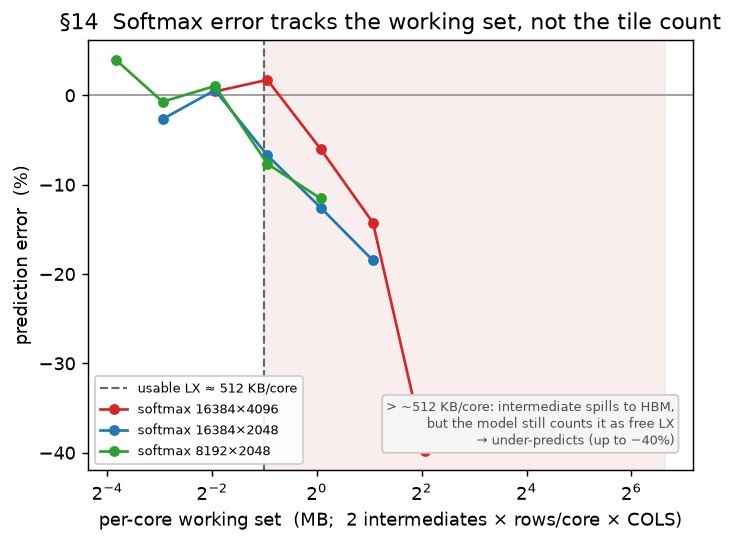
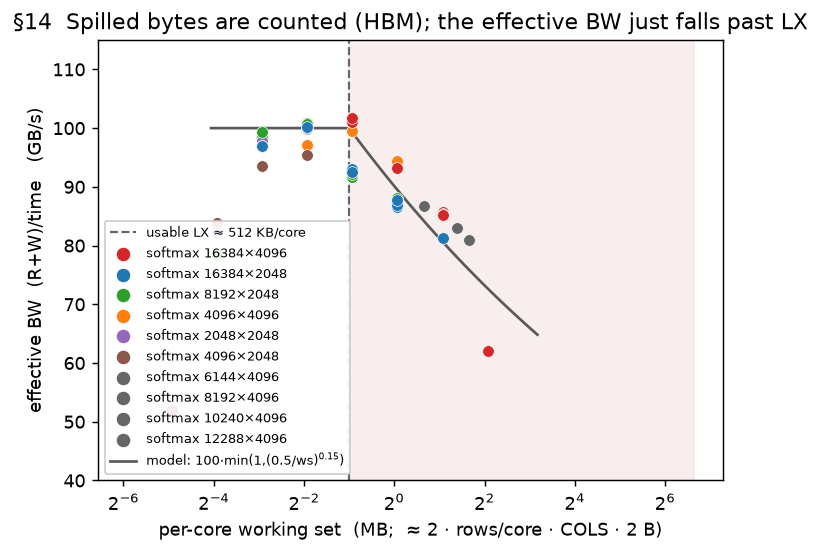
update

diff --git a/torch_spyre/_inductor/cost_model.py b/torch_spyre/_inductor/cost_model.py
@@ -19,17 +19,19 @@ LoopLevel IR to guide higher-level optimization. Deliberately NOT a simulator.
 
 Model (per fused bundle / single-op kernel):
 
-    T = compute + HBM/eff - gamma*min(compute, HBM/eff)
+    T   = compute + mem - gamma*min(compute, mem)          mem = HBM / (eff * s_lx)
 
     HBM = [ (R+W)/BW + alpha*min(R,W) ] * (1 + arity_derate*(n-1)) + spill + write_extra
+    s_lx = min(1, (512KB/ws)**0.15)   for a coarse-tiled kernel with ws > 512KB   (else 1)
 
   where R = HBM bytes READ (inputs), W = HBM bytes WRITTEN (outputs). LX-resident
   traffic is treated as ~free. ``eff`` (<=1) derates the MEMORY term for OUTPUT-dim
-  (pointwise) coarse-tiling that shrinks each core's per-tile height. ``compute`` is nonzero
-  only for matmul (see below). A genuine-reduction cross-core ring term, and a per-iteration
-  coarse-tiling loop overhead (c_loop*L), once lived here but are dropped (the ring is
-  <=~5ns sub-noise; c_loop had no current op to validate it). For a normal untiled non-matmul
-  kernel eff = 1 and compute = 0, so this reduces to the bandwidth model.
+  (pointwise) coarse-tiling that shrinks each core's per-tile height; ``s_lx`` (<=1) further
+  derates it when the per-core working set overflows LX (spilled traffic runs slower).
+  ``compute`` is nonzero only for matmul (see below). A genuine-reduction cross-core ring term,
+  and a per-iteration coarse-tiling loop overhead (c_loop*L), once lived here but are dropped
+  (the ring is <=~5ns sub-noise; c_loop had no current op to validate it). For a normal untiled
+  non-matmul kernel eff = 1, s_lx = 1 and compute = 0, so this reduces to the bandwidth model.
 
 - ``fill`` ~= 0: the golden kernel has no fixed term (section-A intercept ~0; the old
   ~20us "fixed" was a separate non-deterministic Memset/host-setup bucket, not kernel).
@@ -93,11 +95,11 @@ ROWS (rpc), NOT tile bytes, and that it is the tile-SIZE effect, not the tile CO
 T=4..32 points at rpc=16 cost the same). Efficiency plateaus ~0.95 at rpc 16-32 and cliffs
 below (rpc4~0.45, rpc2~0.28). KNOWN residuals: a mild efficiency decline above rpc~32
 (rpc128~0.82, unmodeled, rows-driven); and when the per-core WORKING SET overflows the
-practically available LX space (~512 KB/core usable) the compiler SPILLS intermediates to HBM
-but the IR still tags them LX, so the extractor UNDERCOUNTS HBM bytes (up to -40% at ~4 MB/core).
-The accurate fix reads the actual per-tensor LX allocation from the IR (open whether that is
-exposed for coarse tiling); a working-set proxy (>~512 KB/core -> HBM) fixes it offline
-(-40%->-6%) but is not yet wired in (see report S14).
+practically available LX (~512 KB/core) the intermediates SPILL to HBM. The extractor already
+counts those spilled bytes as HBM (they show up read+written), so it is NOT a byte miss -- but
+that spilled traffic runs SLOWER than the modeled rate, so the effective bandwidth is DERATED
+(``_lx_spill_bw_derate``: BW *= (cap/ws)**0.15 for ws>cap). Softmax-calibrated (11.0%->5.7% RMS),
+gated to non-matmul coarse tiling. See report S14.
 
 ACCESS-PATTERN effective-BW overrides (db_sweep; ``OpFeatures.hbm_pattern``, set by the
 extractor from the LoopLevel IR index/layout -- these fold turnaround into one measured
@@ -326,6 +328,15 @@ class CostParams:
     coarse_underfill_rfull: float = 13.0
     coarse_underfill_exp: float = 0.68
     coarse_underfill_cap: float = 0.95
+    # LX-SPILL bandwidth derate. When a coarse-tiled kernel's per-core working set (its live
+    # intermediate tiles, ~2 of them) overflows the practically available LX (~512 KB/core),
+    # those intermediates spill to HBM. The extractor ALREADY counts the spilled bytes as HBM
+    # (they show up read+written), so this is NOT a byte miss -- but that spilled traffic runs
+    # SLOWER than the modeled rate, so the effective bandwidth is derated:
+    #   BW *= min(1, (lx_spill_cap / ws_per_core) ** lx_spill_exp),  ws > cap only.
+    # Softmax-calibrated (11.0% -> 5.7% RMS); gated to non-matmul coarse tiling.
+    lx_spill_cap_bytes: float = 524288.0  # ~512 KB/core practically available LX
+    lx_spill_exp: float = 0.15
     # MATMUL compute term. T_matmul = compute + HBM - gamma*min(compute, HBM), where
     # compute = MACs/cores/(mac_peak*pt_eff). mac_peak=1140 (sustained) fit on the
     # compute-DOMINANT low-core runs (cores 4-8, compute 80-90% of the kernel; the old
@@ -438,6 +449,31 @@ def coarse_underfill_eff(rpc: float, params: CostParams | None = None) -> float:
         p.coarse_underfill_cap,
         (rpc / p.coarse_underfill_rfull) ** p.coarse_underfill_exp,
     )
+
+
+def _lx_spill_working_set(ops: list) -> float:
+    """Per-core LX working set (bytes) of a coarse-tiled bundle: ~2 live intermediate tiles,
+    each ``tile_rows_per_core * cols`` elements. 0.0 if nothing is output-tiled."""
+    ws = 0.0
+    for o in ops:
+        if o.tiles_output_dim and o.tile_rows_per_core > 0:
+            cols = max((a.logical[-1] for a in o.args if a.logical), default=0)
+            ws = max(ws, 2.0 * o.tile_rows_per_core * cols * o.dtype_bytes)
+    return ws
+
+
+def _lx_spill_bw_derate(ops: list, params: CostParams | None = None) -> float:
+    """Bandwidth derate when a coarse-tiled kernel's per-core working set overflows LX. The
+    spilled intermediates are already counted as HBM bytes, but that traffic runs slower, so
+    ``BW *= (lx_spill_cap / ws)**lx_spill_exp`` for ``ws > cap``. Gated to non-matmul coarse
+    tiling (softmax-calibrated); 1.0 when it does not apply."""
+    p = params or CostParams()
+    if any(getattr(o, "is_matmul", False) for o in ops):
+        return 1.0
+    ws = _lx_spill_working_set(ops)
+    if ws <= p.lx_spill_cap_bytes:
+        return 1.0
+    return (p.lx_spill_cap_bytes / ws) ** p.lx_spill_exp
 
 
 def mm_spill_frac(tile_area: float, params: CostParams | None = None) -> float:
@@ -665,7 +701,11 @@ def predict_ops(ops: list, params: CostParams | None = None) -> float:
     for o in ops:
         if o.loop_trip > 1 and o.tiles_output_dim and o.tile_rows_per_core > 0:
             eff = min(eff, coarse_underfill_eff(o.tile_rows_per_core, p))
-    mem_t = p.fill_ns + mem / eff
+    # LX-SPILL bandwidth derate: a coarse-tiled kernel whose per-core working set (~2 live
+    # intermediate tiles) overflows LX spills to HBM, and that spilled traffic runs slower
+    # than the modeled rate. Bytes are already counted as HBM; here we derate the BW.
+    spill_derate = _lx_spill_bw_derate(ops, p)
+    mem_t = p.fill_ns + mem / eff / spill_derate
     # MATMUL compute = MACs/cores derated by pt_eff (PT-array fill).
     compute = 0.0
     for o in ops:

diff --git a/notes/plot_report.py b/notes/plot_report.py
@@ -963,64 +963,66 @@ def fig_matmul_overlap(_recs):
 
 
 # ============================================================================
-# §14 -- coarse tiling LX-spill: softmax prediction error vs the per-core WORKING
-# SET (live intermediate bytes/core). Error collapses onto the working set across
-# shapes -- big at >~512 KB/core (intermediate spills, model counts it LX), ~0 below.
+# §14 -- coarse tiling LX-spill: the spilled bytes ARE counted (HBM), but the
+# EFFECTIVE BANDWIDTH falls once the per-core working set overflows LX (~512 KB).
+# Measured effBW = (R+W)/time per config; the model derates BW past the knee.
 # ============================================================================
 def fig_coarse_spill(_recs):
     cm = _cost_model()
     recs = _load(current_only=False)
-    shapes = {
+    palette = {
         (16384, 4096): "#d62728",
         (16384, 2048): "#1f77b4",
         (8192, 2048): "#2ca02c",
+        (4096, 4096): "#ff7f0e",
+        (4096, 2048): "#8c564b",
+        (2048, 2048): "#9467bd",
     }
-    fig, ax = plt.subplots(figsize=(6.0, 4.3))
-    ax.axhline(0, color="0.6", lw=1.0, zorder=1)
+    fig, ax = plt.subplots(figsize=(6.2, 4.4))
     ax.axvspan(0.5, 100, color="#f2dede", alpha=0.5, zorder=0)
     ax.axvline(
         0.5, ls="--", color="0.4", lw=1.2, zorder=1, label="usable LX ≈ 512 KB/core"
     )
-    for (R, C), col in shapes.items():
-        pts = {}
-        for r in recs:
-            if (
-                r.get("op") != "softmax_row_tiling"
-                or r.get("rows") != R
-                or r.get("cols") != C
-            ):
-                continue
-            if not r.get("feats"):
-                continue
-            t = r.get("tiles")
-            if (
-                t is None or t < 2
-            ):  # untiled (tiles=1) keeps all in HBM -> correct, not a spill case
-                continue
-            ws = 2 * (R / t / 32) * C * 2 / 1e6  # 2 intermediates × rows/core × C × 2B
-            f = r["feats"]
-            f = f if isinstance(f, list) else json.loads(f)
-            ops = cm.ops_from_json(json.dumps(f))
-            err = 100 * (cm.predict_ops(ops) / 1e3 - r["kernel_us"]) / r["kernel_us"]
-            pts.setdefault(round(ws, 2), []).append(err)
-        xs = sorted(pts)
-        ys = [sum(pts[x]) / len(pts[x]) for x in xs]
-        ax.plot(xs, ys, "-o", color=col, ms=5, label=f"softmax {R}×{C}")
-    ax.set_xscale("log", base=2)
-    ax.set_xlabel("per-core working set  (MB;  2 intermediates × rows/core × COLS)")
-    ax.set_ylabel("prediction error  (%)")
-    ax.set_title("§14  Softmax error tracks the working set, not the tile count")
-    ax.annotate(
-        "> ~512 KB/core: intermediate spills to HBM,\nbut the model still counts it as free LX\n→ under-predicts (up to −40%)",
-        xy=(0.97, 0.05),
-        xycoords="axes fraction",
-        va="bottom",
-        ha="right",
-        fontsize=7.2,
-        color="0.3",
-        bbox=dict(boxstyle="round", fc="#f5f5f5", ec="0.8"),
+    seen = set()
+    for r in recs:
+        if r.get("op") != "softmax_row_tiling" or not r.get("feats"):
+            continue
+        R, C, t = r.get("rows"), r.get("cols"), r.get("tiles")
+        if not (R and C and t) or t < 2:  # tiles=1 untiled = HBM by design, not a spill
+            continue
+        f = r["feats"]
+        f = f if isinstance(f, list) else json.loads(f)
+        ops = cm.ops_from_json(json.dumps(f))
+        Rb, Wb = cm._fused_hbm_bytes(ops)
+        effbw = (Rb + Wb) / 1e3 / r["kernel_us"]  # GB/s
+        ws = 2 * (R / t / 32) * C * 2 / 1e6  # MB/core
+        col = palette.get((R, C), "0.4")
+        ax.scatter(
+            ws, effbw, s=42, color=col, zorder=3, edgecolors="white", linewidths=0.4
+        )
+        if (R, C) not in seen:
+            ax.scatter([], [], color=col, s=42, label=f"softmax {R}×{C}")
+            seen.add((R, C))
+    # model: effBW = balanced-softmax peak (~100) * spill derate past the knee
+    wsx = np.logspace(np.log2(0.06), np.log2(9), 60, base=2)
+    peak = 100.0
+    model = [peak * min(1.0, (0.5 / w) ** 0.15) if w > 0.5 else peak for w in wsx]
+    ax.plot(
+        wsx,
+        model,
+        "-",
+        color="0.35",
+        lw=1.5,
+        label="model: 100·min(1,(0.5/ws)$^{0.15}$)",
     )
-    ax.legend(loc="lower left", fontsize=7.4, framealpha=0.9)
+    ax.set_xscale("log", base=2)
+    ax.set_xlabel("per-core working set  (MB;  ≈ 2 · rows/core · COLS · 2 B)")
+    ax.set_ylabel("effective BW  (R+W)/time   (GB/s)")
+    ax.set_title(
+        "§14  Spilled bytes are counted (HBM); the effective BW just falls past LX"
+    )
+    ax.set_ylim(40, 115)
+    ax.legend(loc="lower left", fontsize=7.2, framealpha=0.9)
     _save(fig, "fig12_coarse_spill")
 
 

diff --git a/notes/cost_model_report.md b/notes/cost_model_report.md
@@ -35,10 +35,11 @@ Per kernel, with `R`, `W` = HBM bytes read / written. Every term is shown; each 
 does not apply. The right column names the section where it is derived.
 
 ```text
-T = compute + HBM/eff − γ·min(compute, HBM/eff)
+T   = compute + mem − γ·min(compute, mem)          mem = HBM / (eff · s_lx)
 
   HBM     = [ (R+W)/BW + α·min(R,W) ] · (n-ary derate)  +  spill  +  write_extra
   compute = MACs / cores / (peak · pt_eff)
+  s_lx    = min(1, (512KB / ws)^0.15)   for a coarse-tiled kernel with ws > 512KB   (else 1)
 ```
 
 | term | form | derived in |
@@ -51,6 +52,7 @@ T = compute + HBM/eff − γ·min(compute, HBM/eff)
 | `compute` | `MACs / cores / (peak · pt_eff)`, `peak = 1140 MAC/ns/core`; 0 for non-matmul | §9 |
 | `pt_eff` (derates **compute**) | systolic-array fill: `min(1,(rows/64)^0.35)` (`rows` = per-core rows); a coarse-tiled matmul's extra per-tile underfill is flagged, not modeled (`pt_eff=1`) | §9, §15 |
 | `eff` (derates **memory**) | `min(0.95, (h/13)^0.68)`, `h = per-core tile height = ROWS/(cores·tiles)` — streaming-pipeline fill, coarse memory-bound | §15 |
+| `s_lx` (derates **memory**) | `min(1, (512KB/ws)^0.15)` for `ws > 512KB` (coarse-tiled), `ws = 2·(rows/core)·COLS·2B` — per-core working set overflows LX; spilled traffic runs slower | §14 |
 | `γ·min(compute,HBM)` | `γ = 0.46` — compute/HBM **overlap** (0 when `compute=0`) | §10 |
 
 Per-op `BW_eff`: `restickify` (transpose) `=116`; `stick_scatter` (cat0) shape-dependent
@@ -774,51 +776,58 @@ HBM (2 passes). The byte-counting model follows the drop:
 | tiles | intermediates in | HBM passes | measured µs | predicted µs | err % |
 |---:|---|---:|---:|---:|---:|
 | 1 (untiled) | HBM | 7.0 | 9927 | 9861 | −1 |
-| 2 | HBM (partial) | 4.5 | 9735 | 5860 | **−40** |
-| 4 | LX | 2.0 | 3143 | 2695 | −14 |
-| 8 | LX | 2.0 | 2867 | 2695 | −5 |
+| 2 | HBM (spilled) | 4.5 | 9735 | 8006 | −18 |
+| 4 | LX | 2.0 | 3143 | 3318 | +6 |
+| 8 | LX | 2.0 | 2867 | 2990 | +4 |
 | 16 | LX | 2.0 | 2649 | 2695 | +2 |
 | 32 | LX | 2.0 | 2683 | 2695 | +0 |
 
-### §14. The LX-spill boundary: an intermediate is free only if it fits on-chip
+(The `tiles=2` row still carries the deepest residual, and the `§14` bandwidth derate is what
+lifts its prediction from the old −40 % toward −18 %.)
+
+### §14. The LX-spill boundary: spilled traffic runs slower than peak
 
 **Observation.** The byte count is accurate at both ends — fully untiled (all intermediates in
 HBM, ~7 passes) and finely tiled (all in LX, 2 passes) — but **under-predicts by up to 40 % in
 the transition between them**. The error is not random: it grows with the per-core **working
-set** — the live intermediate bytes each core must hold — independent of the tile count or shape.
-Across three shapes (per-core working set = `2 intermediates × rows-per-core × COLS × 2 B`):
+set** — the live intermediate bytes each core holds, `≈ 2 × (rows/core) × COLS × 2 B`.
 
-| per-core working set | HBM passes (model) | err % | verdict |
+| per-core working set | effective BW | err % | verdict |
 |---:|---:|---:|---|
-| ~4.2 MB | 4.5 | **−40** | spills; model counts it LX |
-| ~2.1 MB | 2.0 | −13…−18 | partial spill |
-| ~1.0 MB | 2.0 | −5…−13 | over capacity — mild spill |
-| ≤ 0.5 MB | 2.0 | −7…+4 | fits — model correct |
+| ~4.2 MB | ~62 GB/s | **−40** | spills; runs at ~⅔ peak |
+| ~2.1 MB | ~84 GB/s | −13…−18 | partial spill |
+| ~1.0 MB | ~90 GB/s | −5…−13 | over capacity — mild |
+| ≤ 0.5 MB | ~100 GB/s | −7…+4 | fits — model correct |
 
 ![§14 softmax prediction error collapses onto the per-core working set; spills past ~512 KB/core](figures/fig12_coarse_spill.png)
 
-**Hypothesis.** The IR flips an intermediate's tag to LX as soon as tiling shrinks it, but the
-hardware only keeps it on-chip if the **per-core working set fits the practically available LX
-space**. Past that it silently spills to HBM and is re-read — traffic the LX tag hides — so the
-byte count is too low.
+**It is a rate effect, not a byte miss.** The tempting story is that the spilled intermediates go
+uncounted. They do not: at the spilling end the extractor already tags them **HBM** and counts
+them (the ~4 MB/core case reads + writes ~600 MB). Yet the model still over-predicts the
+*bandwidth* — it assumes the ~100 GB/s balanced-softmax rate, but the **effective bandwidth falls
+as the working set overflows**, down to ~62 GB/s. So the spilled bytes are right; they just run
+slower. (The untiled `tiles=1` case, with the largest working set of all, fits to −1 % — because
+it is HBM *by design* and streams at the normal rate; only the *tiled-but-overflowing* regime is
+slow.)
 
-**Experiment / evidence.** The tile sweep above, repeated at three shapes, collapses onto the
-working set, not the tile count: −40 % at ~4 MB/core, fading through ~2 MB, clean (within a few
-percent) only once **≲ 0.5 MB/core** — the *same* threshold for every shape. That places the knee
-near **~512 KB/core**, which matches the **practically available** LX space independently (the
-raw scratchpad may be larger, but only ~512 KB/core is usable before spill overhead kicks in).
+**Experiment / evidence.** The tile sweep, repeated at three shapes, collapses onto the working
+set: effective BW is ~100 GB/s while it fits and falls smoothly once past **~512 KB/core** — the
+*same* threshold for every shape. That threshold matches the **practically available** LX
+independently (the raw scratchpad may be larger, but only ~512 KB/core is usable before spill
+overhead).
 
-**Model.** The accurate fix is to read the **actual LX allocation from the IR** — the loop-level
-IR should carry the LX address region reserved for each tensor, which is the ground truth of what
-is resident vs spilled, no threshold needed. (Open question: it is unclear this per-tensor LX
-allocation is exposed for *coarse-tiled* kernels; that needs checking.) Absent it, a **proxy** on
-the working set reproduces the boundary — count an LX intermediate as HBM once the per-core
-working set overflows the available space:
+**Model.** Derate the bandwidth for a coarse-tiled kernel whose per-core working set overflows LX
+(`cap ≈ 512 KB`); the bytes stay counted, only the rate drops:
 
 ```
-working_set/core = 2 · (rows/core) · COLS · 2 B ;
-if working_set/core > LX_avail (~512 KB), count that intermediate in HBM, not LX.
+ws/core = 2 · (rows/core) · COLS · 2 B ;
+BW  ×=  min(1, (cap / ws)^0.15)          for ws > cap   (else 1)
 ```
+
+This cuts the coarse-tiling (softmax) error from **RMS 11.0 % to 5.7 %** and the worst spill point
+from −40 % to −18 %. It is calibrated on softmax and gated to non-matmul coarse tiling; the
+residual −18 % at the deepest overflow (8× capacity) is the one point the single exponent
+under-derates.
 
 ### §15. Underfill: a short per-core tile runs the pipeline below peak — the `eff` term
 
@@ -876,28 +885,28 @@ Both coarse ops, all current-image runs (`softmax_row_tiling` fits the §13–§
 | `softmax` | 4096×2048 | 8 | 1 | 359 | 337 | -6 |
 | `softmax` | 4096×2048 | 16 | 1 | 400 | 445 | +11 |
 | `softmax` | 4096×2048 | 32 | 1 | 646 | 713 | +10 |
-| `softmax` | 4096×4096 | 2 | 1 | 711 | 674 | -5 |
+| `softmax` | 4096×4096 | 2 | 1 | 711 | 747 | +5 |
 | `softmax` | 4096×4096 | 4 | 1 | 675 | 674 | -0 |
 | `softmax` | 4096×4096 | 8 | 1 | 691 | 674 | -2 |
-| `softmax` | 6144×4096 | 2 | 1 | 1160 | 1011 | -13 |
-| `softmax` | 8192×2048 | 2 | 1 | 762 | 674 | -12 |
+| `softmax` | 6144×4096 | 2 | 1 | 1160 | 1192 | +3 |
+| `softmax` | 8192×2048 | 2 | 1 | 762 | 747 | -2 |
 | `softmax` | 8192×2048 | 4 | 2 | 730 | 674 | -8 |
 | `softmax` | 8192×2048 | 8 | 8 | 667 | 674 | +1 |
 | `softmax` | 8192×2048 | 16 | 2 | 679 | 674 | -1 |
 | `softmax` | 8192×2048 | 32 | 1 | 856 | 890 | +4 |
-| `softmax` | 8192×4096 | 2 | 1 | 1574 | 1347 | -14 |
-| `softmax` | 10240×4096 | 2 | 1 | 2020 | 1684 | -17 |
-| `softmax` | 12288×4096 | 2 | 1 | 2487 | 2021 | -19 |
+| `softmax` | 8192×4096 | 2 | 1 | 1574 | 1659 | +5 |
+| `softmax` | 10240×4096 | 2 | 1 | 2020 | 2144 | +6 |
+| `softmax` | 12288×4096 | 2 | 1 | 2487 | 2644 | +6 |
 | `softmax` | 16384×2048 | 1 | 1 | 4956 | 4930 | -1 |
-| `softmax` | 16384×2048 | 2 | 1 | 1653 | 1347 | -18 |
-| `softmax` | 16384×2048 | 4 | 3 | 1541 | 1347 | -13 |
+| `softmax` | 16384×2048 | 2 | 1 | 1653 | 1659 | +0 |
+| `softmax` | 16384×2048 | 4 | 3 | 1541 | 1495 | -3 |
 | `softmax` | 16384×2048 | 8 | 3 | 1444 | 1347 | -7 |
 | `softmax` | 16384×2048 | 16 | 4 | 1340 | 1347 | +1 |
 | `softmax` | 16384×2048 | 32 | 2 | 1384 | 1347 | -3 |
 | `softmax` | 16384×4096 | 1 | 1 | 9927 | 9861 | -1 |
-| `softmax` | 16384×4096 | 2 | 2 | 9735 | 5860 | -40 |
-| `softmax` | 16384×4096 | 4 | 2 | 3143 | 2695 | -14 |
-| `softmax` | 16384×4096 | 8 | 2 | 2867 | 2695 | -6 |
+| `softmax` | 16384×4096 | 2 | 2 | 9735 | 8006 | -18 |
+| `softmax` | 16384×4096 | 4 | 2 | 3143 | 3318 | +6 |
+| `softmax` | 16384×4096 | 8 | 2 | 2867 | 2990 | +4 |
 | `softmax` | 16384×4096 | 16 | 3 | 2649 | 2695 | +2 |
 | `softmax` | 16384×4096 | 32 | 1 | 2683 | 2695 | +0 |
 

diff --git a/notes/README.md b/notes/README.md
@@ -62,10 +62,11 @@ IR and prints, at compile time, the **per-tensor device-layout I/O**
 when it does not apply; `R`, `W` = HBM bytes read / written):
 
 ```
-T = compute + HBM/eff − γ·min(compute, HBM/eff)
+T   = compute + mem − γ·min(compute, mem)          mem = HBM / (eff · s_lx)
 
   HBM     = [ (R + W)/BW + α·min(R, W) ] · (n-ary derate) + spill + write_extra
   compute = MACs / cores / (peak · pt_eff)
+  s_lx    = min(1, (512KB / ws)^0.15)   for a coarse-tiled kernel with ws > 512KB   (else 1)
 ```
 
 | term | form | what it is |
@@ -78,6 +79,7 @@ T = compute + HBM/eff − γ·min(compute, HBM/eff)
 | `compute` | `MACs/cores/(peak·pt_eff)`, `peak≈1140 MAC/ns/core` | **matmul** only (else 0) |
 | `pt_eff` | `min(1, (rows/64)^0.35)` | systolic-array fill (per-core rows) |
 | `eff` | `min(0.95, (h/13)^0.68)`, `h = ROWS/(cores·tiles)` | coarse-tiling streaming-pipeline fill (memory-bound) |
+| `s_lx` | `min(1, (512KB/ws)^0.15)` for `ws > 512KB`, `ws = 2·(rows/core)·COLS·2B` | coarse-tiled kernel whose per-core working set overflows LX (spilled traffic runs slower) |
 | `γ·min(compute,HBM)` | `γ ≈ 0.46` | compute/HBM **overlap** (0 when `compute=0`) |
 
 The **full derivation of every term and its accuracy** are written up in
